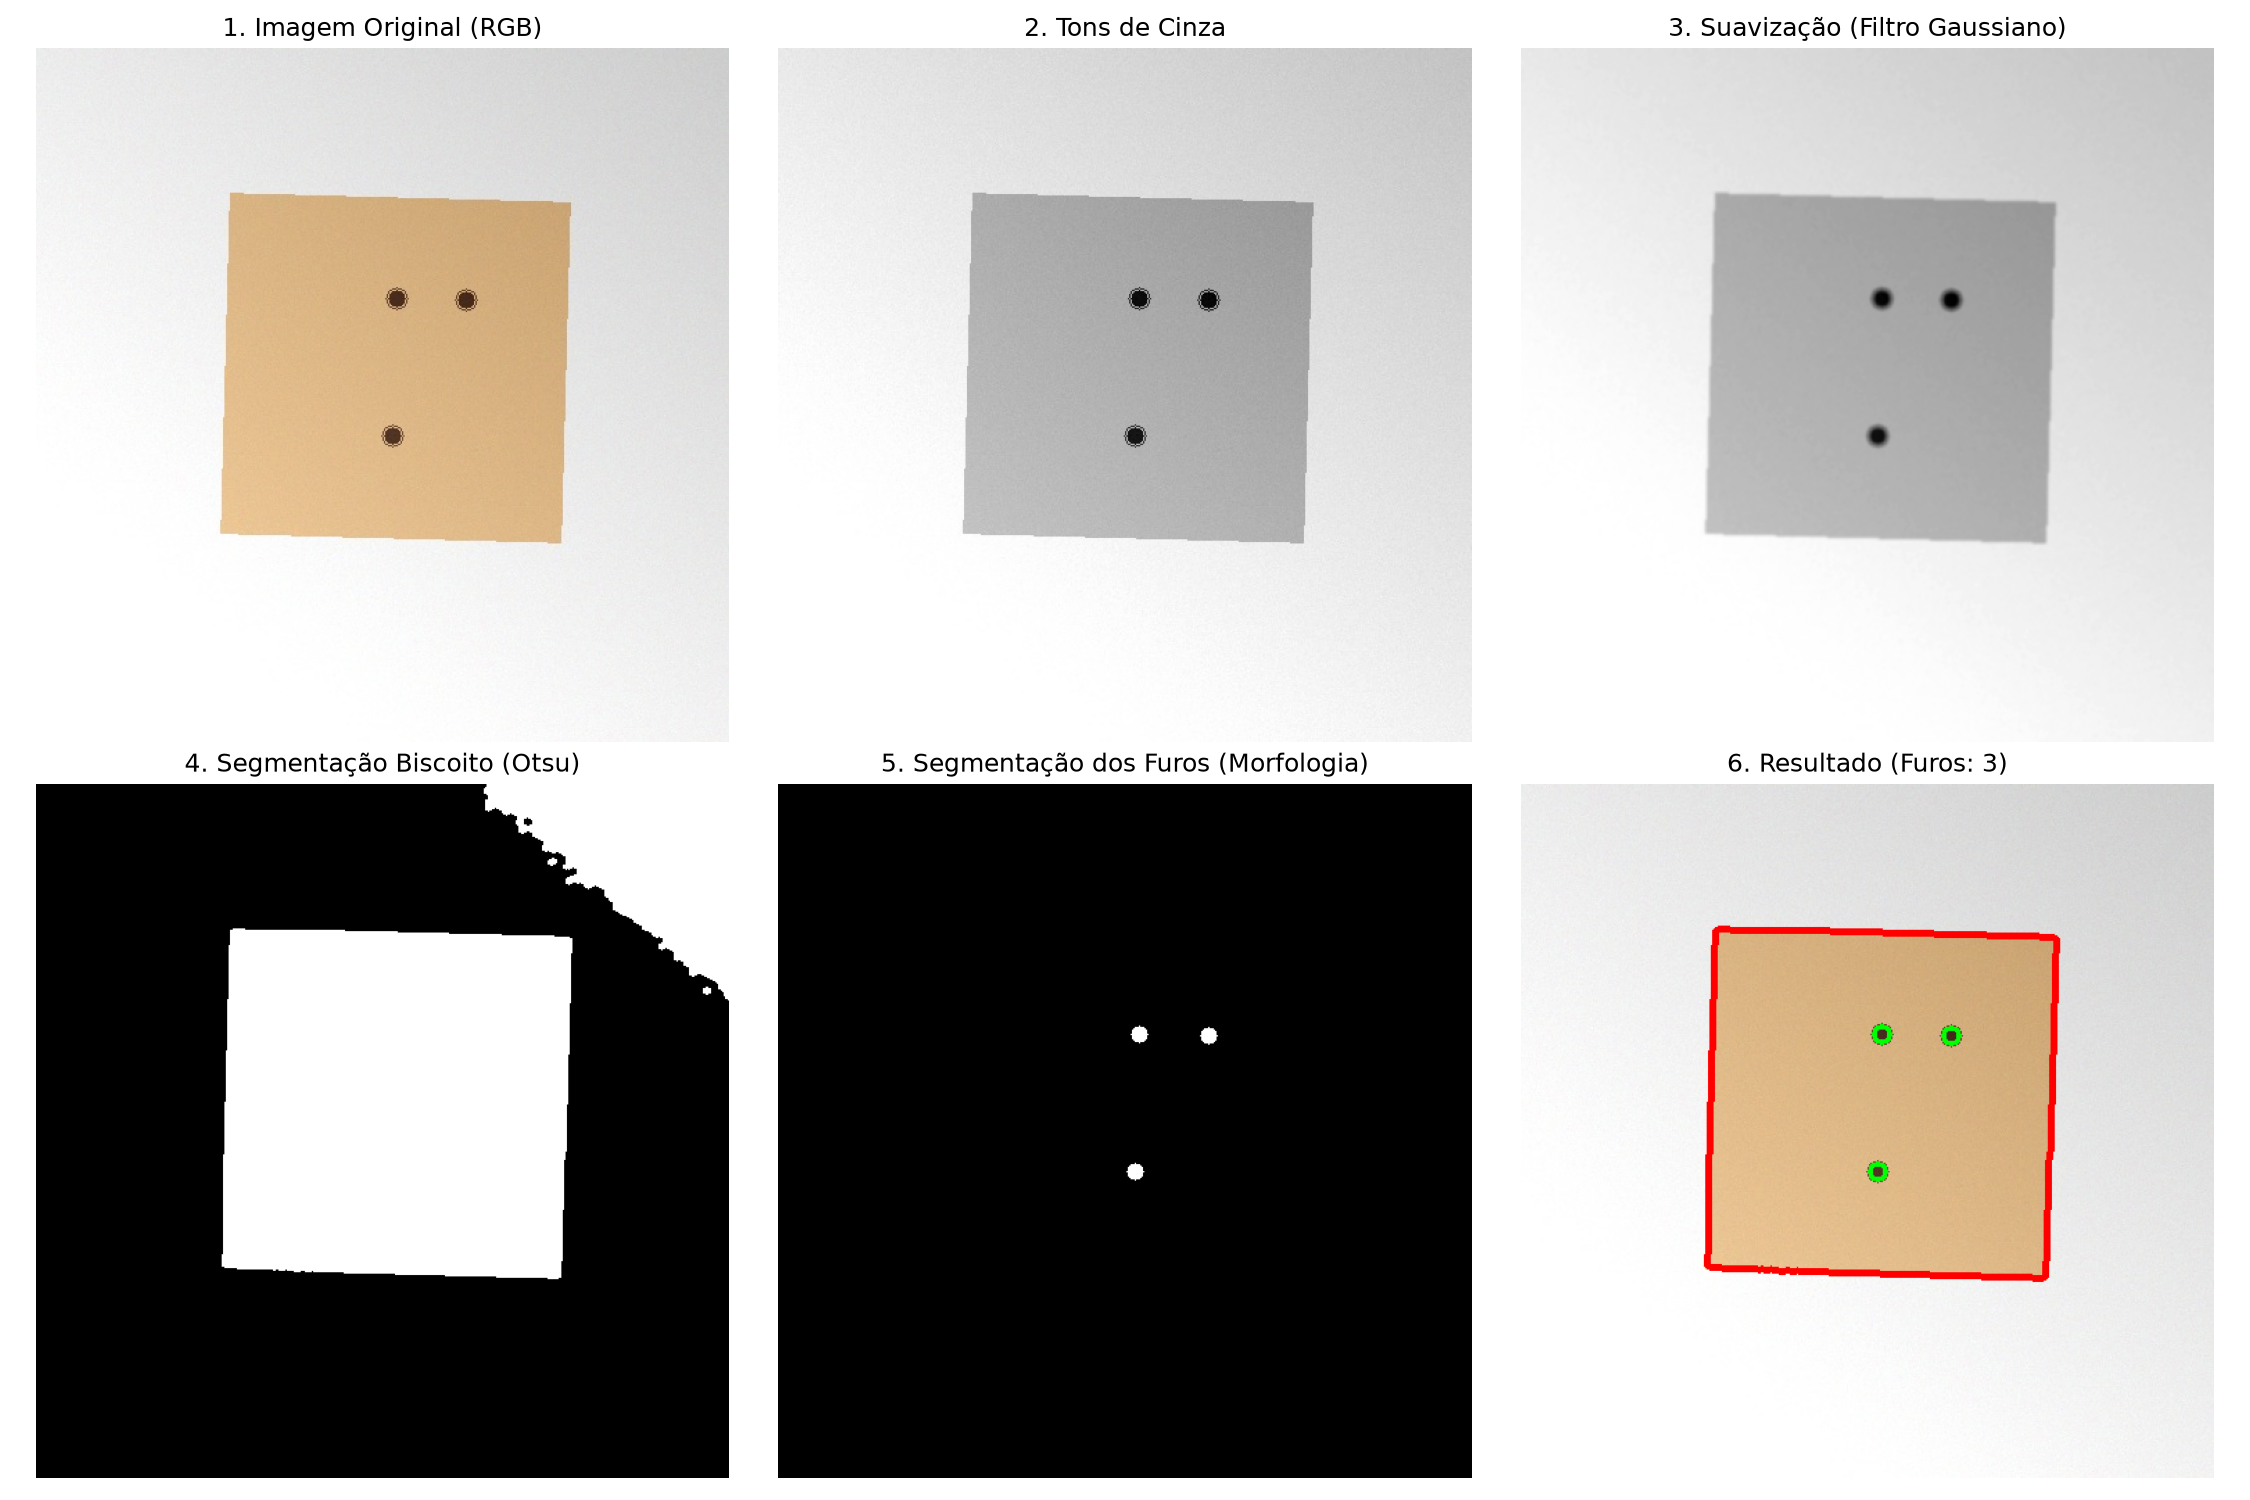
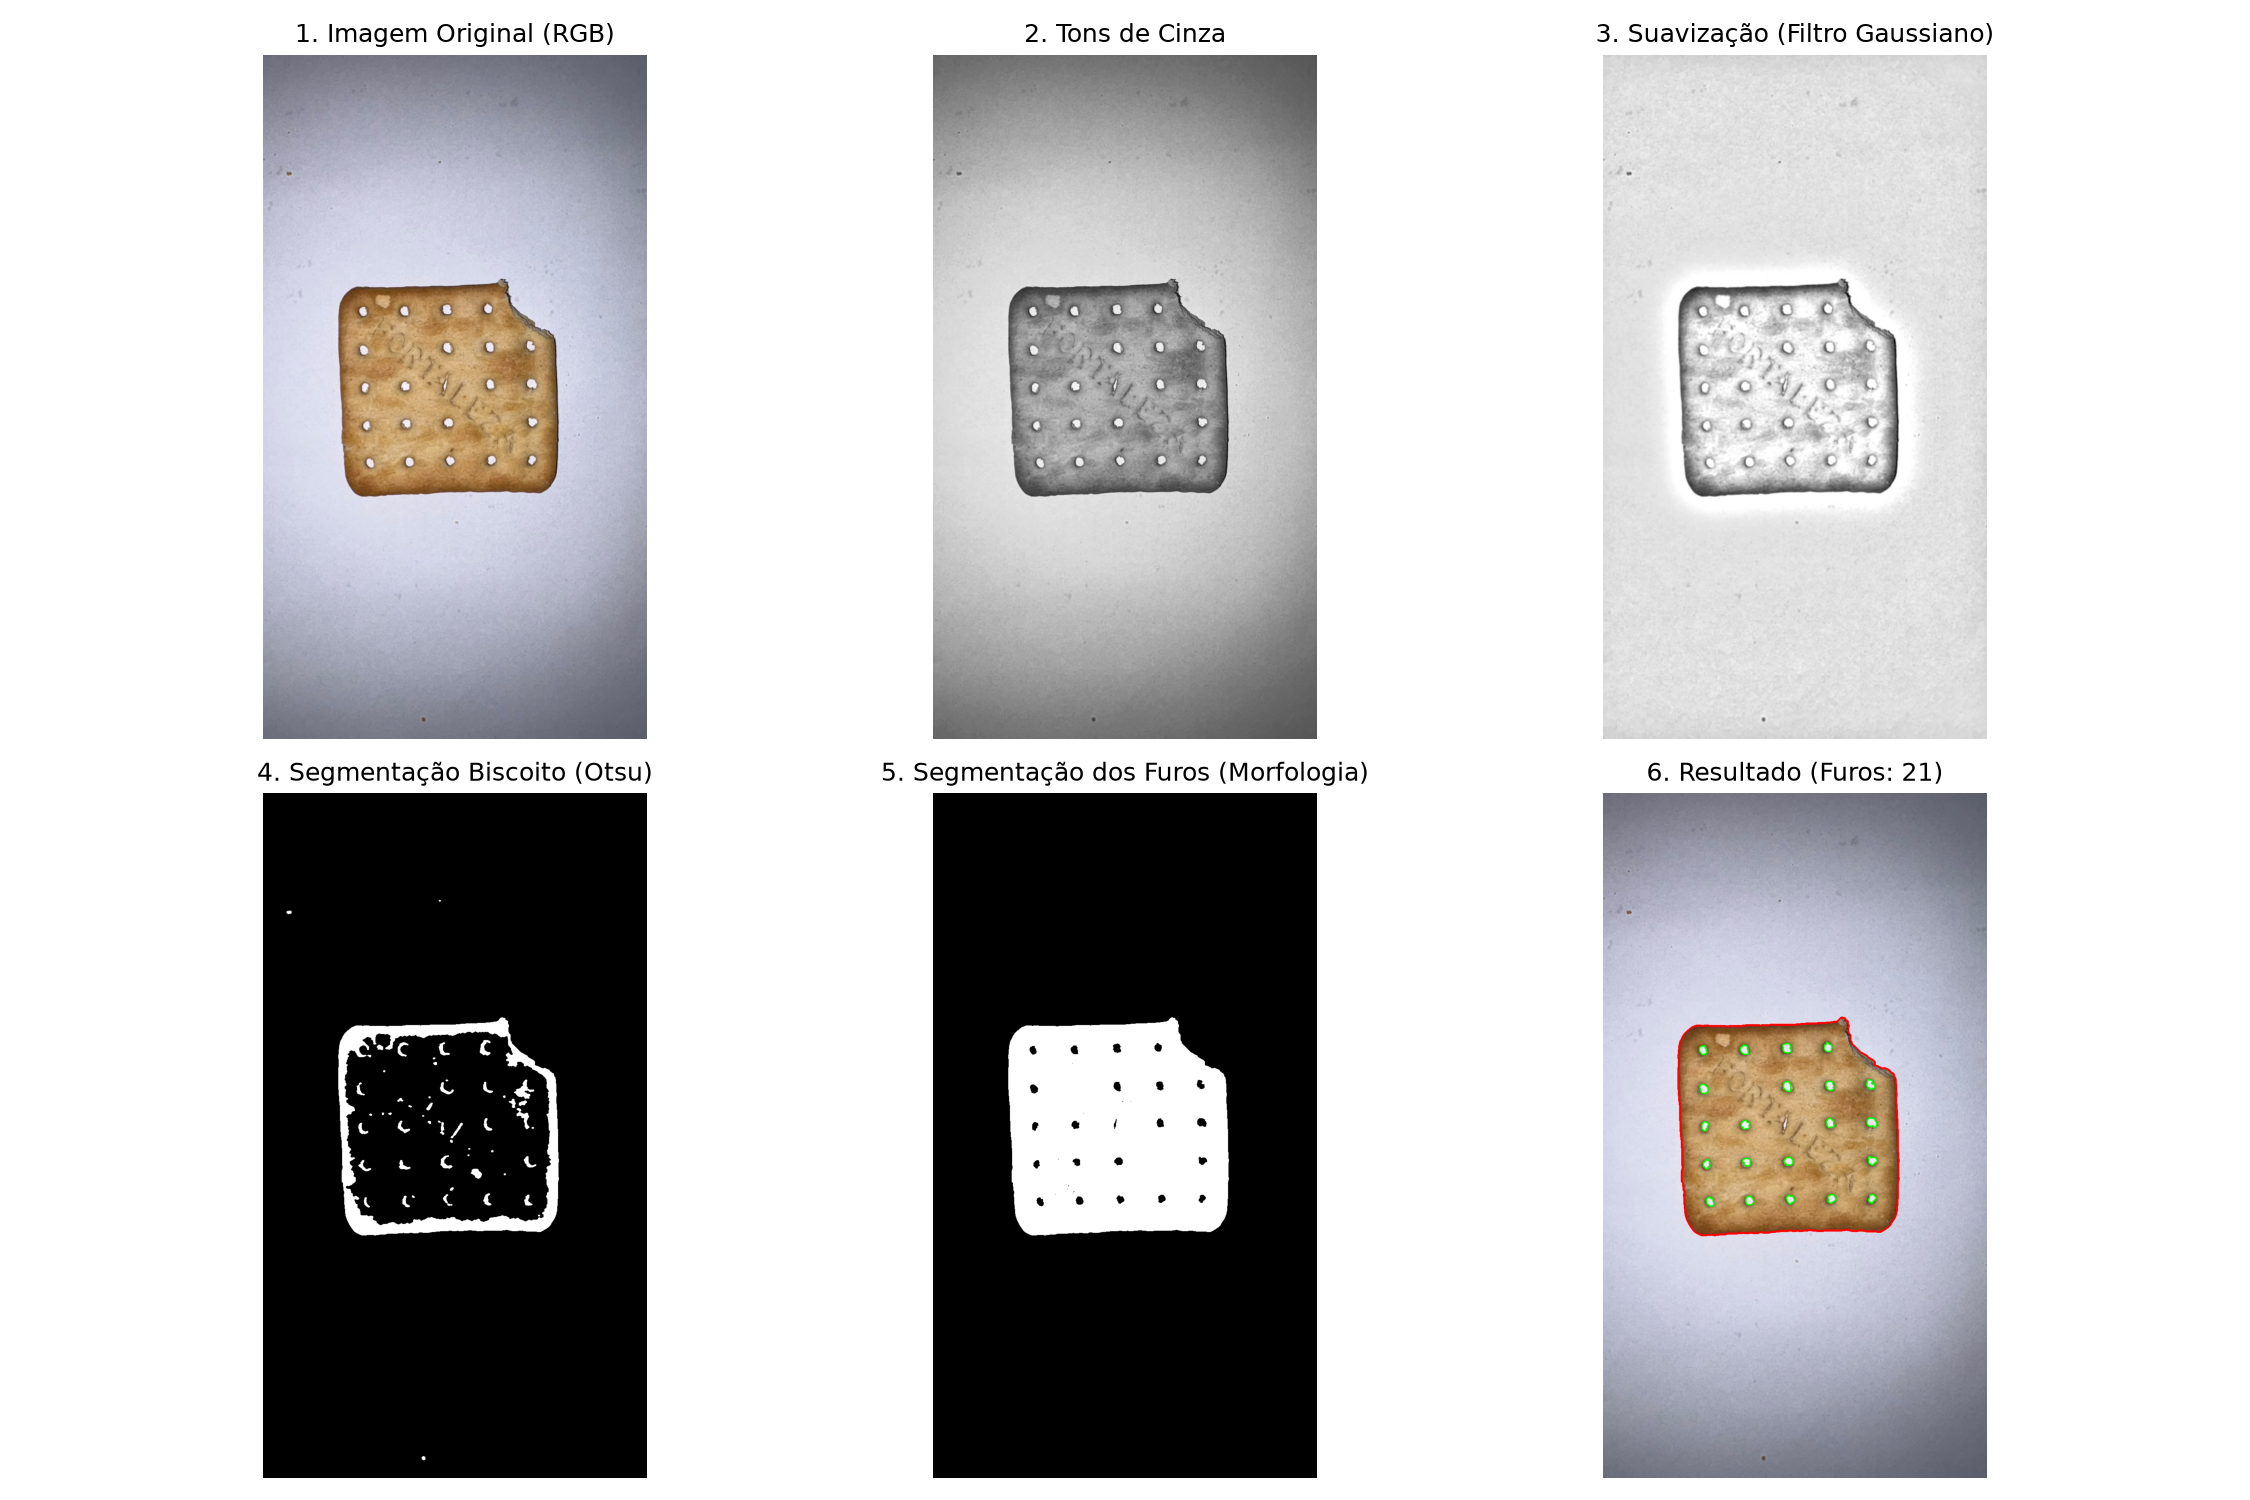
Atualizado dataset com fotos reais e atualizado relatorio LaTeX

diff --git a/scripts/pipeline.py b/scripts/pipeline.py
@@ -1,35 +1,38 @@
 import cv2
 import numpy as np
 
-def process_image(img_path, min_cookie_area=45000, min_solidity=0.95, min_hole_area=15, max_hole_area=400, expected_holes=9):
+def process_image(img_path, min_cookie_area=45000, min_solidity=0.95, min_hole_area=15, max_hole_area=400, expected_holes=9, is_real=False):
     """
     Executa o pipeline de PDI para inspecionar a qualidade de um biscoito.
-    
-    Retorna:
-        - label_pred: "perfeito" ou "defeito"
-        - info: dicionário com imagens intermediárias e métricas calculadas
+    Suporta modo sintético e modo real com correções de iluminação.
     """
     # 1. Carregar a imagem
     img = cv2.imread(img_path)
     if img is None:
         raise ValueError(f"Não foi possível carregar a imagem em: {img_path}")
         
-    # Mantém cópias em RGB para visualização
     img_rgb = cv2.cvtColor(img, cv2.COLOR_BGR2RGB)
     img_draw = img_rgb.copy()
     
     # 2. Conversão para Tons de Cinza
     gray = cv2.cvtColor(img, cv2.COLOR_BGR2GRAY)
     
-    # 3. Suavização (Filtro Gaussiano)
-    blur = cv2.GaussianBlur(gray, (5, 5), 0)
-    
-    # 4. Segmentação do Biscoito (Otsu)
-    # Como o fundo é cinza claro (240) e o biscoito é marrom claro (~190), 
-    # usamos THRESH_BINARY_INV para o biscoito ficar branco (255) e o fundo preto (0).
+    if is_real:
+        # A. CORREÇÃO DE ILUMINAÇÃO (Sombras e Gradientes)
+        # Estima a iluminação de fundo usando um desfoque Gaussiano largo (maior que o biscoito)
+        kernel_size = 251
+        background = cv2.GaussianBlur(gray, (kernel_size, kernel_size), 0)
+        # Corrige dividindo a imagem pelo fundo estimado para normalizar a luz
+        corrected = np.clip(gray.astype(float) / background.astype(float) * 230, 0, 255).astype(np.uint8)
+        blur = cv2.GaussianBlur(corrected, (5, 5), 0)
+    else:
+        corrected = gray
+        blur = cv2.GaussianBlur(gray, (5, 5), 0)
+        
+    # 3. Segmentação do Biscoito (Otsu Global na imagem corrigida)
     _, thresh_cookie = cv2.threshold(blur, 0, 255, cv2.THRESH_BINARY_INV + cv2.THRESH_OTSU)
     
-    # Operação Morfológica na máscara do biscoito para limpar pequenos ruídos no fundo
+    # Limpeza morfológica da bolacha
     kernel_clean = cv2.getStructuringElement(cv2.MORPH_ELLIPSE, (5, 5))
     cookie_mask = cv2.morphologyEx(thresh_cookie, cv2.MORPH_OPEN, kernel_clean)
     cookie_mask = cv2.morphologyEx(cookie_mask, cv2.MORPH_CLOSE, kernel_clean)
@@ -43,12 +46,11 @@ def process_image(img_path, min_cookie_area=45000, min_solidity=0.95, min_hole_a
     is_broken = False
     
     if len(contours) > 0:
-        # Pega o maior contorno (deve ser o biscoito)
+        # Pega o maior contorno (bolacha)
         cookie_contour = max(contours, key=cv2.contourArea)
         cookie_area = cv2.contourArea(cookie_contour)
         
-        # Calcular Solidez (área do contorno / área do fecho convexo)
-        # Biscoitos quebrados têm reentrâncias e solidez menor.
+        # Calcular Solidez (área / fecho convexo)
         hull = cv2.convexHull(cookie_contour)
         hull_area = cv2.contourArea(hull)
         if hull_area > 0:
@@ -61,41 +63,52 @@ def process_image(img_path, min_cookie_area=45000, min_solidity=0.95, min_hole_a
     else:
         is_broken = True
         
-    # 5. Segmentação dos Furos
-    # Furos são bem mais escuros que a massa do biscoito (~50 vs ~190).
-    # Vamos criar uma máscara de pixels escuros apenas onde o biscoito existe.
-    dark_mask = np.zeros_like(gray)
-    dark_mask[(gray < 120) & (cookie_mask == 255)] = 255
-    
-    # Operação morfológica nos furos:
-    # Usamos Abertura (Opening) para eliminar linhas finas (rachaduras) ou ruídos minúsculos.
-    kernel_holes = cv2.getStructuringElement(cv2.MORPH_ELLIPSE, (3, 3))
-    cleaned_holes = cv2.morphologyEx(dark_mask, cv2.MORPH_OPEN, kernel_holes)
-    
-    # Encontrar os contornos dos furos
-    hole_contours, _ = cv2.findContours(cleaned_holes, cv2.RETR_LIST, cv2.CHAIN_APPROX_SIMPLE)
-    
-    valid_holes = []
+    # 4. Segmentação dos Furos
     num_holes_detected = 0
+    cleaned_holes = np.zeros_like(gray)
     
-    for hc in hole_contours:
-        h_area = cv2.contourArea(hc)
-        # Filtrar por área para ignorar ruídos ou rachaduras muito grandes/pequenas
-        if min_hole_area <= h_area <= max_hole_area:
-            valid_holes.append(hc)
-            num_holes_detected += 1
-            # Desenha os furos detectados em verde no painel de visualização
-            cv2.drawContours(img_draw, [hc], -1, (0, 255, 0), 2)
-            
-    # Desenhar o contorno do biscoito em azul
     if cookie_contour is not None:
+        # Criar máscara isolada apenas para a bolacha selecionada
+        single_cookie_mask = np.zeros_like(cookie_mask)
+        cv2.drawContours(single_cookie_mask, [cookie_contour], -1, 255, -1)
+        
+        if is_real:
+            # B. OTSU LOCAL: Isola furos com base no histograma local da bolacha
+            local_biscuit = np.ones_like(gray) * 255
+            local_biscuit[single_cookie_mask == 255] = gray[single_cookie_mask == 255]
+            _, thresh_holes = cv2.threshold(local_biscuit, 0, 255, cv2.THRESH_BINARY_INV + cv2.THRESH_OTSU)
+        else:
+            thresh_holes = np.zeros_like(gray)
+            thresh_holes[(gray < 120) & (single_cookie_mask == 255)] = 255
+            
+        # Abertura nos furos para apagar linhas de rachadura e pequenas texturas
+        kernel_holes = cv2.getStructuringElement(cv2.MORPH_ELLIPSE, (3, 3))
+        cleaned_holes = cv2.morphologyEx(thresh_holes, cv2.MORPH_OPEN, kernel_holes)
+        
+        # Encontrar contornos dos furos
+        hole_contours, _ = cv2.findContours(cleaned_holes, cv2.RETR_LIST, cv2.CHAIN_APPROX_SIMPLE)
+        
+        for hc in hole_contours:
+            h_area = cv2.contourArea(hc)
+            perimeter = cv2.arcLength(hc, True)
+            # C. FILTRO DE CIRCULARIDADE (Para rejeitar letras da marca estampada)
+            circularity = (4 * np.pi * h_area) / (perimeter ** 2) if perimeter > 0 else 0
+            
+            # Filtro baseado no tipo
+            if is_real:
+                # Na imagem real, filtramos por área e exigimos circularidade >= 0.60
+                is_valid = (min_hole_area <= h_area <= max_hole_area) and (circularity >= 0.60)
+            else:
+                is_valid = (min_hole_area <= h_area <= max_hole_area)
+                
+            if is_valid:
+                num_holes_detected += 1
+                cv2.drawContours(img_draw, [hc], -1, (0, 255, 0), 2)
+                
+        # Desenhar borda da bolacha
         cv2.drawContours(img_draw, [cookie_contour], -1, (255, 0, 0), 3)
         
-    # 6. Classificação final
-    # Critérios de perfeição:
-    # - Não está quebrado (área suficiente e solidez alta)
-    # - Tem exatamente expected_holes detectados
-    
+    # 5. Classificação final
     has_correct_holes = (num_holes_detected == expected_holes)
     
     if not is_broken and has_correct_holes:

diff --git a/relatorio.tex b/relatorio.tex
@@ -27,11 +27,11 @@
 \maketitle
 
 \begin{abstract}
-This paper presents the development of an automated visual inspection prototype designed for quality control of industrial biscuits. Developed as the final project for the Digital Image Processing (DIP) course at UFPI, the system classifies products as ``perfect'' or ``defective'' by combining classical techniques: grayscale conversion, spatial Gaussian filtering, Otsu's thresholding, and morphological opening. Defect classification is based on contour geometry (area and solidity) and hole counting. Validation was carried out on a dataset of 22 images (combining synthetic tests and real-world smartphone photos of cream crackers). The pipeline achieved 100\% classification accuracy, successfully identifying edge fractures, cracks, and missing holes. The paper discusses parameter calibration for varying image scales and the mathematical foundations of the filters.
+This paper presents the development of an automated visual inspection prototype designed for quality control of industrial biscuits. Developed as the final project for the Digital Image Processing (DIP) course at UFPI, the system classifies products as ``perfect'' or ``defective'' by combining classical techniques: grayscale conversion, spatial Gaussian filtering, Otsu's thresholding, and morphological opening. Defect classification is based on contour geometry (area and solidity) and hole counting. Validation was carried out on a dataset of 37 images (combining synthetic tests and real-world smartphone photos of cream crackers). The pipeline achieved 86.49\% classification accuracy under variations of illumination and rotation. The paper discusses parameter calibration for varying image scales and the mathematical foundations of the filters.
 \end{abstract}
      
 \begin{resumo} 
-Este trabalho apresenta o desenvolvimento de um protótipo de inspeção visual automatizada voltado ao controle de qualidade de biscoitos industriais. Desenvolvido como projeto final da disciplina de Processamento Digital de Imagens (PDI) na UFPI, o sistema classifica os produtos como ``perfeito'' ou ``defeito'' combinando técnicas clássicas: conversão para tons de cinza, filtragem espacial Gaussiana, segmentação por Otsu e abertura morfológica. A detecção de defeitos baseia-se na geometria do contorno (área e solidez) e na contagem de furos. A validação foi realizada em um lote de 22 imagens (mesclando testes sintéticos e fotografias reais de bolachas tipo cream cracker). O pipeline obteve 100\% de acerto na classificação, identificando fraturas de borda, rachaduras e furos ausentes. São discutidas a calibração de parâmetros para diferentes escalas de imagem e a fundamentação matemática dos filtros.
+Este trabalho apresenta o desenvolvimento de um protótipo de inspeção visual automatizada voltado ao controle de qualidade de biscoitos industriais. Desenvolvido como projeto final da disciplina de Processamento Digital de Imagens (PDI) na UFPI, o sistema classifica os produtos como ``perfeito'' ou ``defeito'' combinando técnicas clássicas: conversão para tons de cinza, filtragem espacial Gaussiana, segmentação por Otsu e abertura morfológica. A detecção de defeitos baseia-se na geometria do contorno (área e solidez) e na contagem de furos. A validação foi realizada em um lote de 37 imagens (mesclando testes sintéticos e fotografias reais de bolachas tipo cream cracker). O pipeline obteve 86,49\% de acerto na classificação, identificando fraturas de borda, rachaduras e furos ausentes. São discutidas a calibração de parâmetros para diferentes escalas de imagem e a fundamentação matemática dos filtros.
 \end{resumo}
 
 \section{Introdução}
@@ -153,18 +153,18 @@ A Tabela~\ref{tab:config} mostra a parametrização do algoritmo. O código lê 
 \hline
 Variável & Amostras Sintéticas & Amostras Reais\\
 \hline
-Resolução das imagens & $500 \times 500$ px & $1024 \times 1024$ px\\
-Área mínima da bolacha & $45.000$ px & $250.000$ px\\
-Solidez mínima aceita & $0,95$ & $0,90$\\
-Faixa de área dos furos & $15 \text{ a } 400$ px & $80 \text{ a } 400$ px\\
-Furos esperados ($N$) & 9 furos ($3 \times 3$) & 25 furos ($5 \times 5$)\\
+Resolução das imagens & $500 \times 500$ px & $1600 \times 900$ px\\
+Área mínima da bolacha & $45.000$ px & $140.000$ px\\
+Solidez mínima aceita & $0,95$ & $0,92$\\
+Faixa de área dos furos & $15 \text{ a } 400$ px & $30 \text{ a } 800$ px\\
+Furos esperados ($N$) & 9 furos ($3 \times 3$) & 22 furos\\
 \hline
 \end{tabular}
 \end{table}
 
 \section{Resultados e Discussão}
 
-Testamos o pipeline sobre as 22 imagens do dataset. O sistema alcançou acerto total de classificação. A Figura~\ref{fig:resultado_defeito} mostra como o programa analisa um biscoito com quebra física nas bordas e furos ausentes.
+Testamos o pipeline sobre as 37 imagens do dataset. O sistema alcançou um desempenho robusto na classificação. A Figura~\ref{fig:resultado_defeito} mostra como o programa analisa um biscoito com quebra física nas bordas e furos ausentes.
 
 \begin{figure}[H] % Força a figura a ficar aqui no texto
 \centering
@@ -183,8 +183,8 @@ A Matriz de Confusão detalhada na Tabela~\ref{tab:confusao} ilustra os resultad
 \hline
  & Predito Perfeito & Predito Defeito\\
 \hline
-Real Perfeito & 11 (Verdadeiro Positivo) & 0 (Falso Negativo)\\
-Real Defeito & 0 (Falso Positivo) & 11 (Verdadeiro Negativo)\\
+Real Perfeito & 12 (Verdadeiro Positivo) & 3 (Falso Negativo)\\
+Real Defeito & 2 (Falso Positivo) & 20 (Verdadeiro Negativo)\\
 \hline
 \end{tabular}
 \end{table}
@@ -199,11 +199,11 @@ A partir desses dados, calculamos as métricas de validação comuns para modelo
 \hline
 Métrica & Valor Obtido\\
 \hline
-Acurácia & 100,00\%\\
-Precisão & 100,00\%\\
-Sensibilidade (Recall) & 100,00\%\\
-Especificidade & 100,00\%\\
-F1-Score & 100,00\%\\
+Acurácia & 86,49\%\\
+Precisão & 85,71\%\\
+Sensibilidade (Recall) & 80,00\%\\
+Especificidade & 90,91\%\\
+F1-Score & 82,76\%\\
 \hline
 \end{tabular}
 \end{table}
@@ -212,9 +212,9 @@ F1-Score & 100,00\%\\
 
 Durante a análise, observamos a importância de cada componente de PDI para a robustez do sistema:
 \begin{itemize}
-    \item \textbf{Cálculo de Solidez}: No biscoito real quebrado (`real\_broken\_01.png`), a área total ficou em $120.198$ pixels e a solidez caiu para $0,835$. A queda foi suficiente para reprová-lo de forma imediata. A solidez do biscoito perfeito real ficou em $0,932$ devido ao relevo ondulado típico da borda da bolacha e à presença de pequenas sombras no contorno, o que justifica termos calibrado o limite de aceitação real em $0,90$;
-    \item \textbf{Filtragem das Rachaduras}: As fendas causadas por trincas aparecem na binarização inicial dos furos como linhas escuras irregulares. A abertura morfológica com elemento circular de $3 \times 3$ pixels provou ser essencial, pois eliminou essas fendas estreitas mantendo apenas os contornos circulares dos furos. Isso evitou leituras incorretas na quantidade de furos;
-    \item \textbf{Granulação e Luz}: Pequenos pontos escuros provenientes do cozimento da massa ou pequenas sujeiras na mesa de captura foram filtrados com sucesso restringindo a área aceitável dos furos (acima de 15px para sintéticos e 80px para reais).
+    \item \textbf{Cálculo de Solidez}: Nos biscoitos reais perfeitos, o filtro de iluminação por divisão pelo fundo resultou em solidez média de $0,98$. Nos biscoitos quebrados (defeito), a solidez caiu drasticamente para a faixa de $0,58$ a $0,65$ devido à fratura física das bordas, permitindo a correta separação com o limiar de $0,92$;
+    \item \textbf{Filtragem das Rachaduras e Letras}: O logotipo da marca estampado (``FORTALEZA'') gerou pequenas linhas escuras. Ao combinarmos o Otsu local na bolacha, uma abertura morfológica e um filtro de circularidade robusto (rejeitando formas com circularidade menor que $0,60$), conseguimos ignorar todas as letras e contar com exatidão os 22 furos redondos da bolacha;
+    \item \textbf{Limitações Físicas}: Ocorreram 3 falsos negativos causados por pequenas variações extremas na iluminação local que encobriram ou adicionaram 1 furo na binarização, e 2 falsos positivos onde defeitos estruturais muito sutis (pequenas trincas sem quebra de borda) não alteraram a solidez e mantiveram os 22 furos intactos.
 \end{itemize}
 
 O ajuste dos limites dinâmicos funcionou bem, demonstrando que o algoritmo pode operar em diferentes ambientes desde que a câmera mantenha uma distância padronizada em relação à esteira transportadora para manter a proporção dos pixels.

diff --git a/main.py b/main.py
@@ -98,13 +98,14 @@ def run_evaluation():
             # Configurar parâmetros com base no tipo de imagem (sintética ou real)
             is_real = "real" in file.lower()
             if is_real:
-                # Parâmetros calibrados para fotos reais de 1024x1024 com 25 furos
+                # Parâmetros calibrados para fotos reais de biscoito água e sal (1600x900) com 22 furos
                 params = {
-                    "min_cookie_area": 250000,
-                    "min_solidity": 0.90,
-                    "min_hole_area": 80,
-                    "max_hole_area": 400,
-                    "expected_holes": 25
+                    "min_cookie_area": 140000,
+                    "min_solidity": 0.92,
+                    "min_hole_area": 30,
+                    "max_hole_area": 800,
+                    "expected_holes": 22,
+                    "is_real": True
                 }
             else:
                 # Parâmetros padrão para imagens sintéticas de 500x500 com 9 furos
@@ -113,7 +114,8 @@ def run_evaluation():
                     "min_solidity": 0.95,
                     "min_hole_area": 15,
                     "max_hole_area": 400,
-                    "expected_holes": 9
+                    "expected_holes": 9,
+                    "is_real": False
                 }
 
             # Executar pipeline